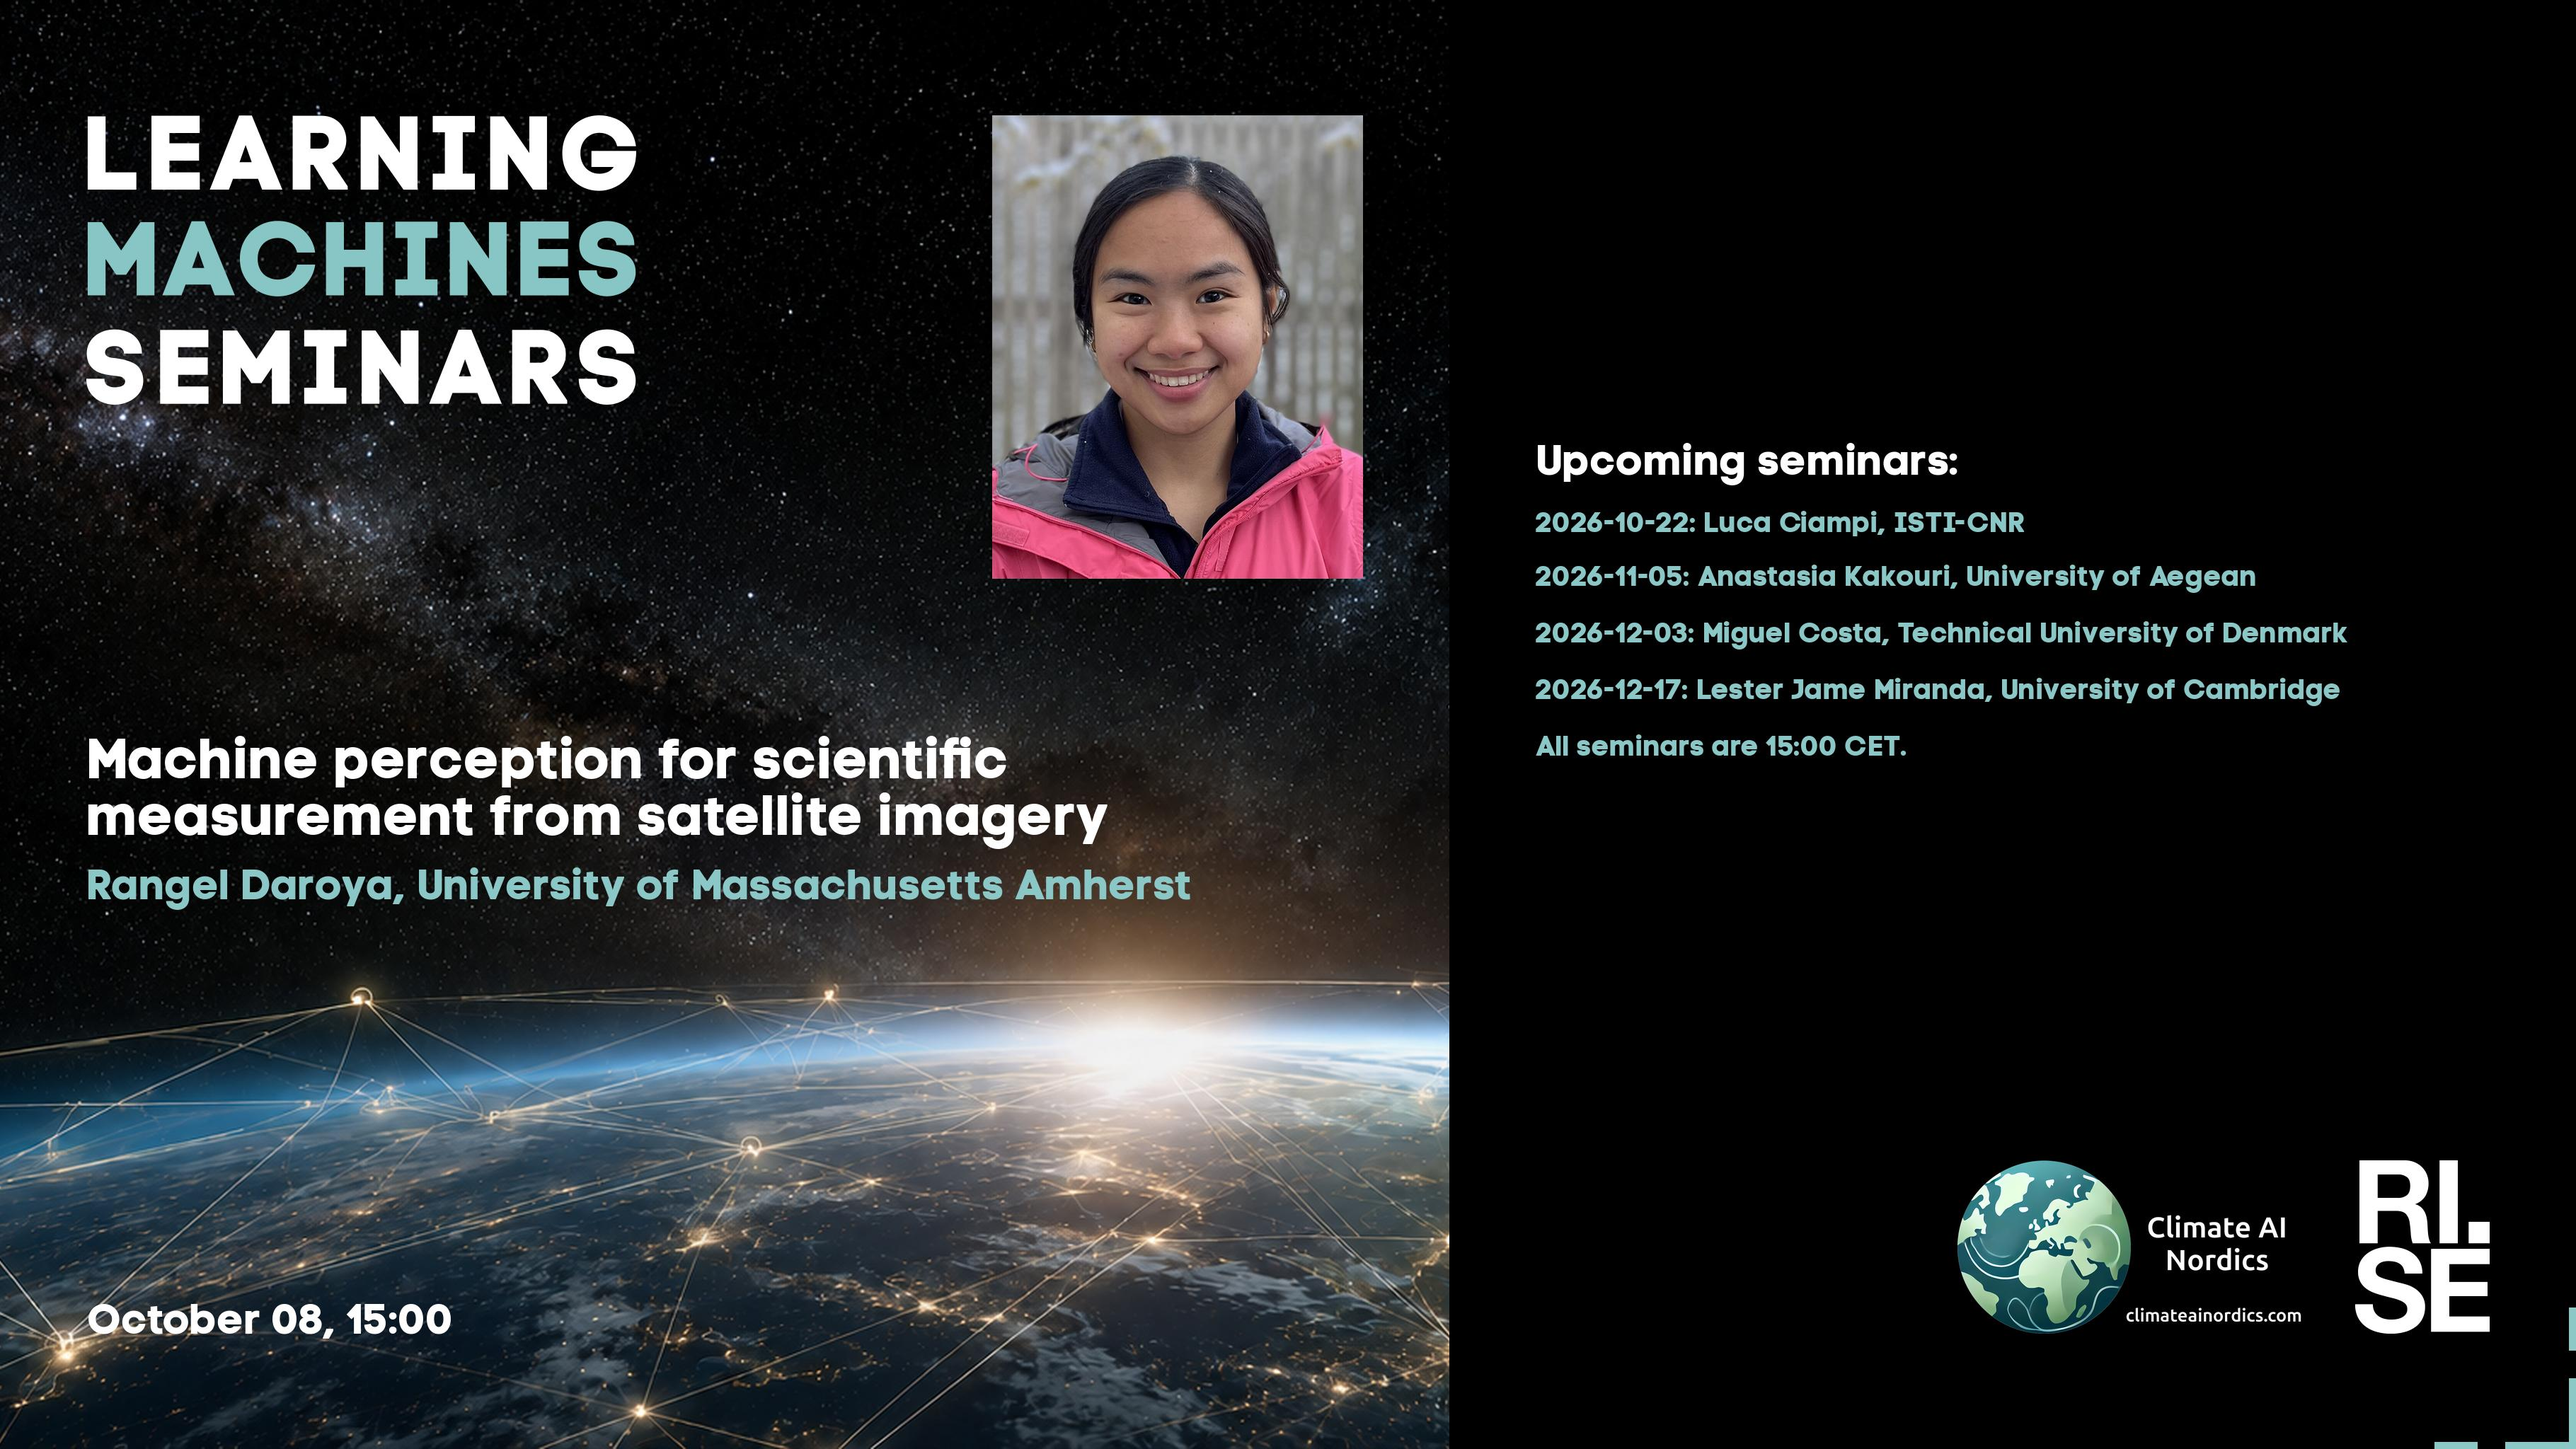
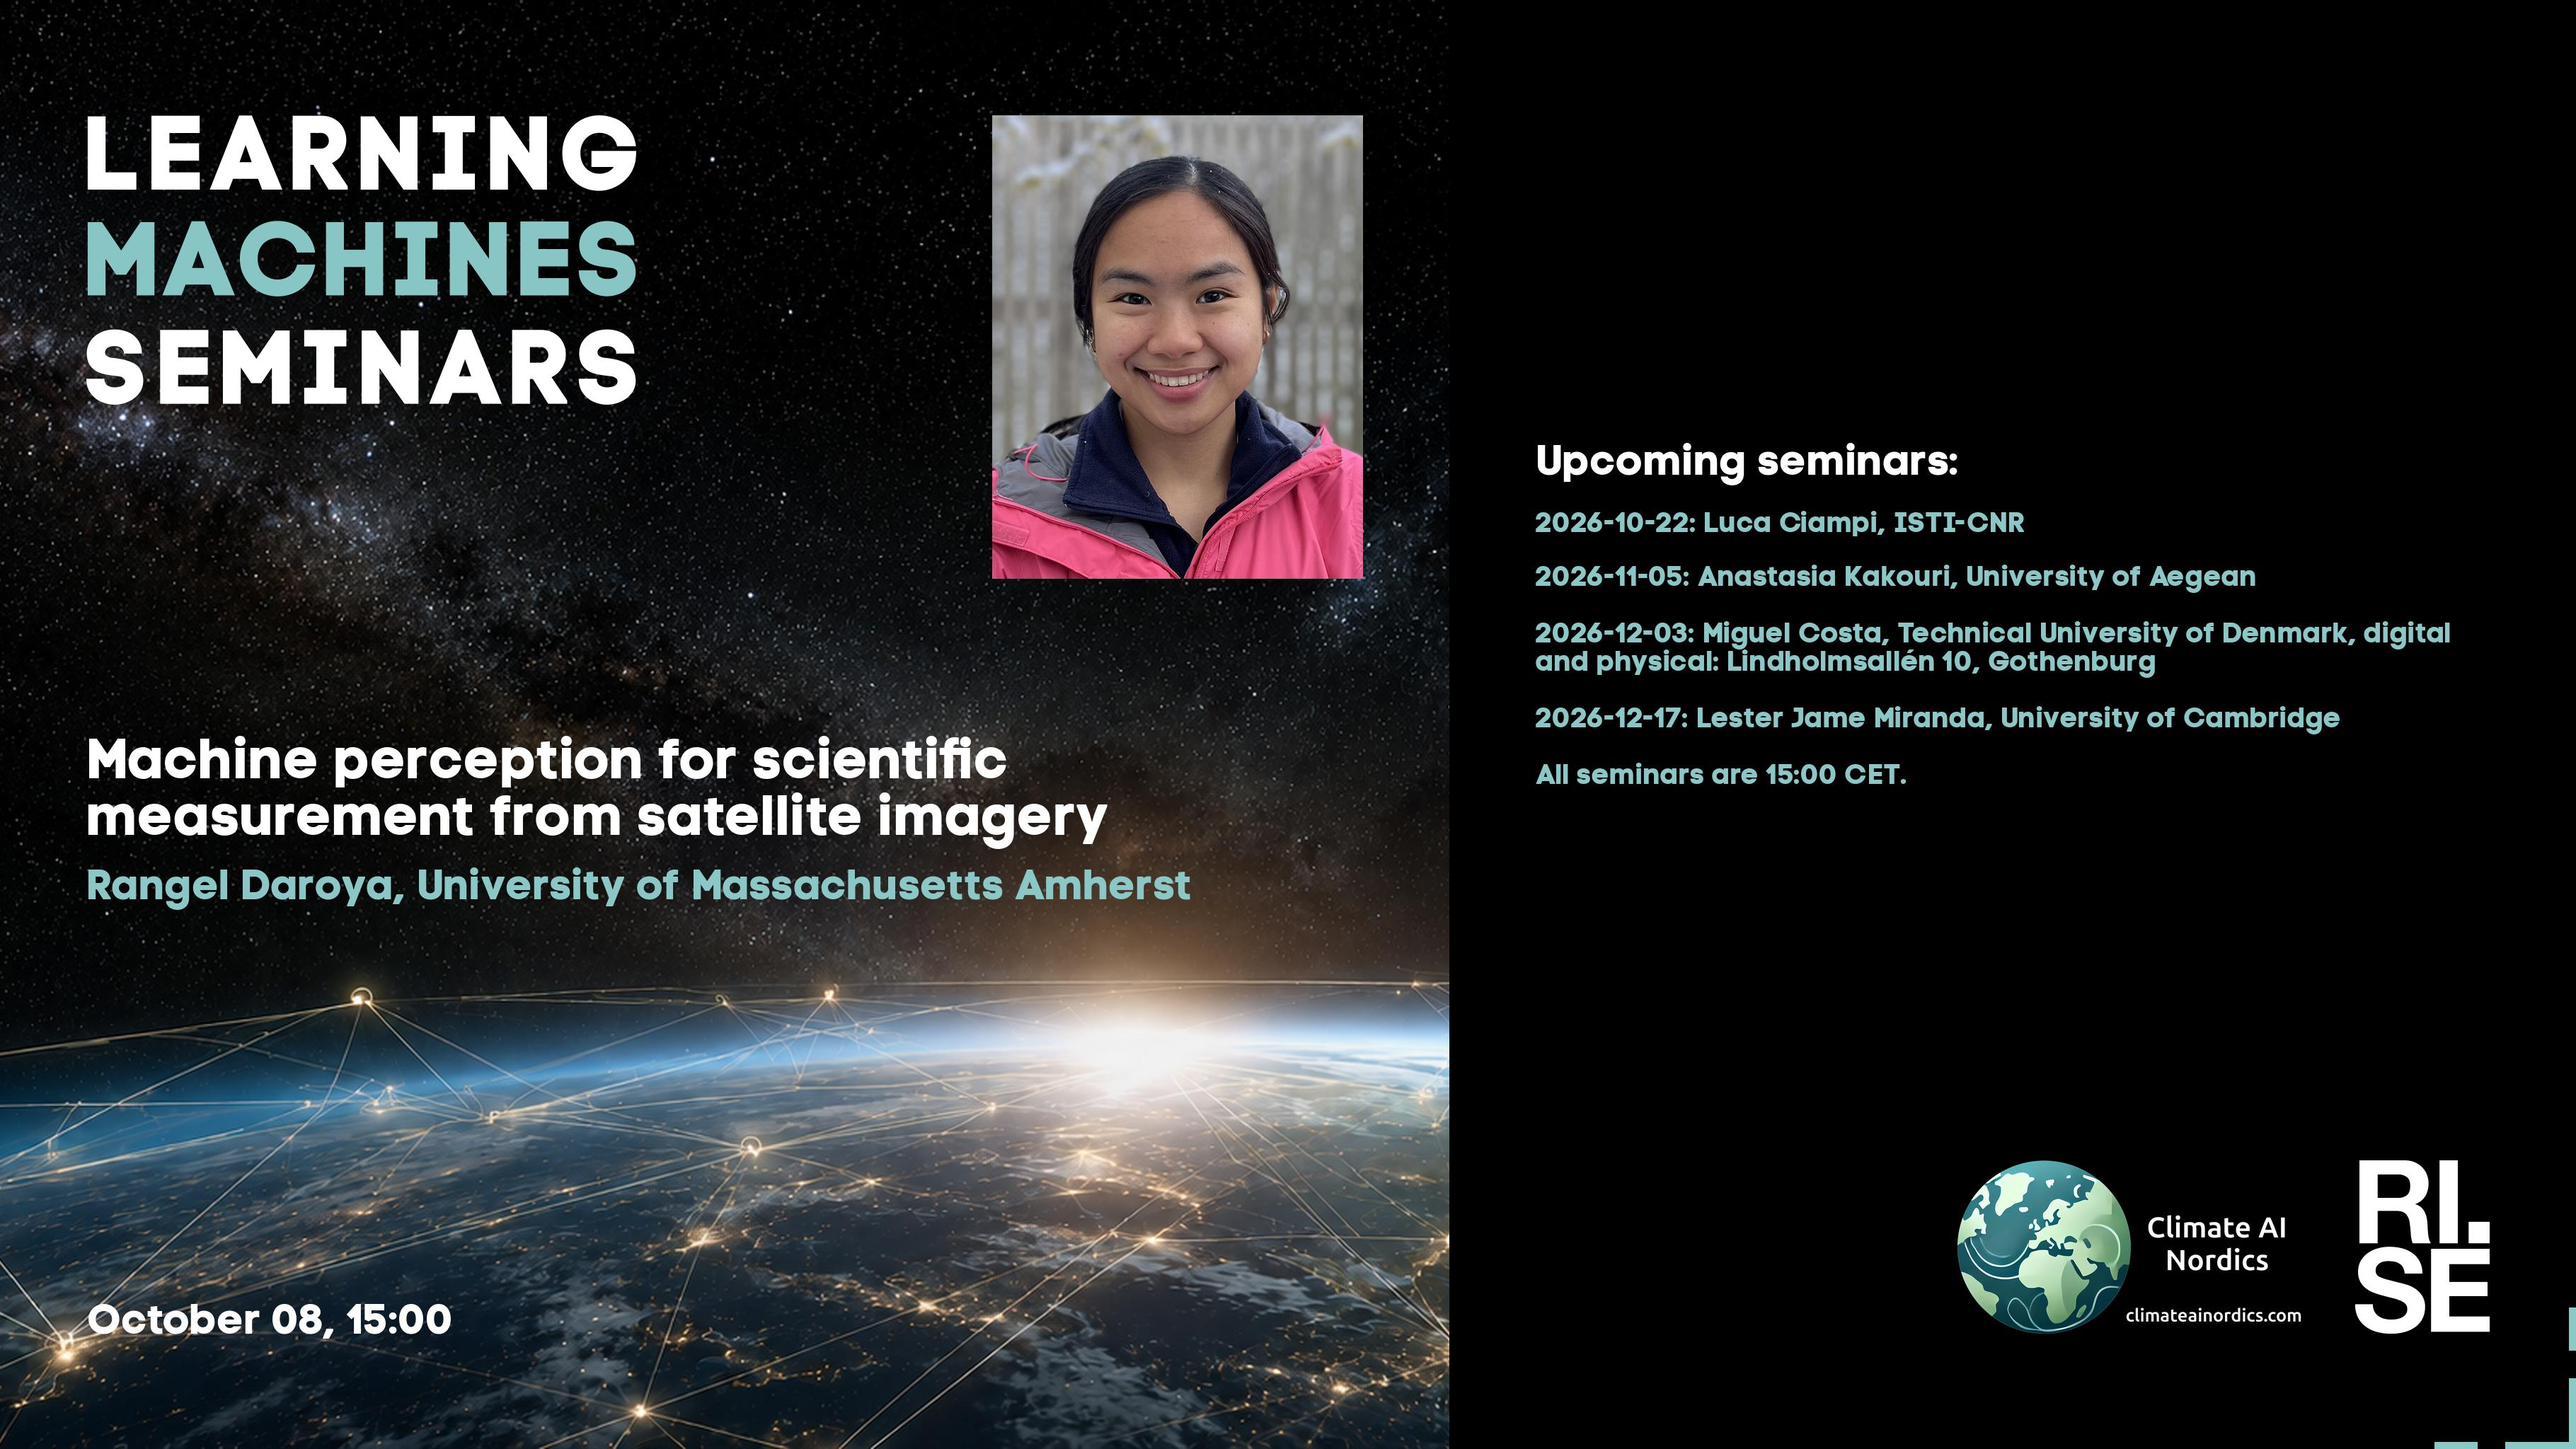
Updated plan on web site.

Changed region(s): [[0.5898, 0.4375, 0.9313, 0.5625]]

diff --git a/lm/2026-09-24.md b/lm/2026-09-24.md
@@ -27,10 +27,10 @@ This seminar is a collaboration between RISE and Climate AI Nordics -- [climatea
 * 2026-10-08: Rangel Daroya, University of Massachusetts Amherst
 * 2026-10-22: Luca Ciampi, ISTI-CNR
 * 2026-11-05: Anastasia Kakouri, University of Aegean
-* 2026-12-03: Miguel Costa, Technical University of Denmark
+* 2026-12-03: Miguel Costa, Technical University of Denmark, **digital and physical: Lindholmsallén 10, Gothenburg**
 * All seminars are 15:00 CET.
 
-More information and coming seminars: [https://ri.se/lm-sem](https://ri.se/lm-sem)
+More information and coming seminars: [https://learningmachines.se](https://learningmachines.se)
 
 -- The Learning Machines Team
 

diff --git a/lm/2026-10-08.md b/lm/2026-10-08.md
@@ -30,11 +30,11 @@ I will discuss three aspects that try to solve these problems: learning transfer
 
 * 2026-10-22: Luca Ciampi, ISTI-CNR
 * 2026-11-05: Anastasia Kakouri, University of Aegean
-* 2026-12-03: Miguel Costa, Technical University of Denmark
+* 2026-12-03: Miguel Costa, Technical University of Denmark, **digital and physical: Lindholmsallén 10, Gothenburg**
 * 2026-12-17: Lester Jame Miranda, University of Cambridge
 * All seminars are 15:00 CET.
 
-More information and coming seminars: [https://ri.se/lm-sem](https://ri.se/lm-sem)
+More information and coming seminars: [https://learningmachines.se](https://learningmachines.se)
 
 -- The Learning Machines Team
 
